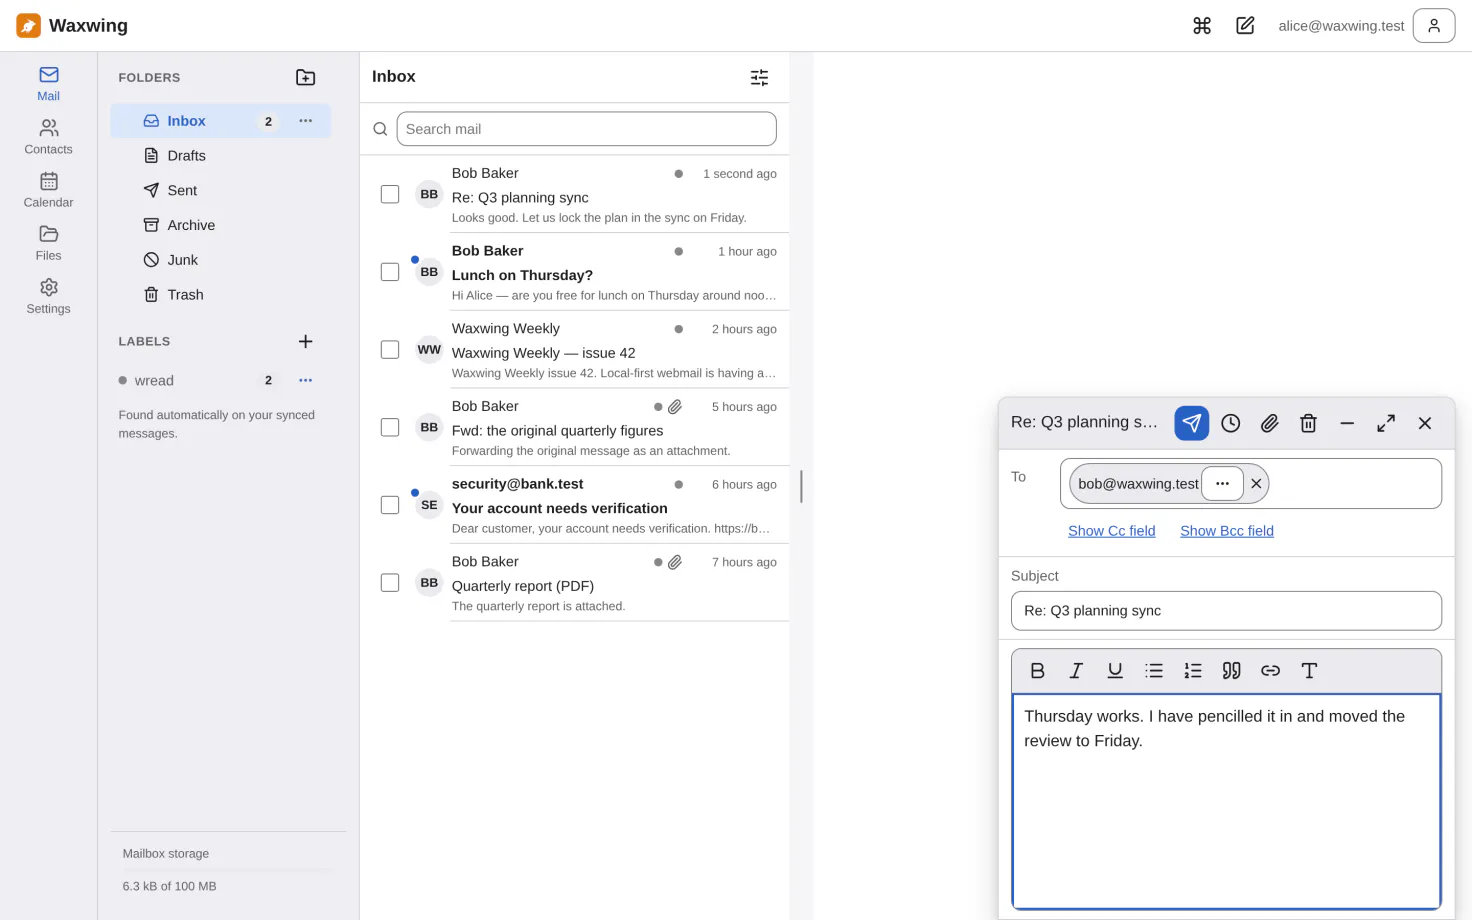
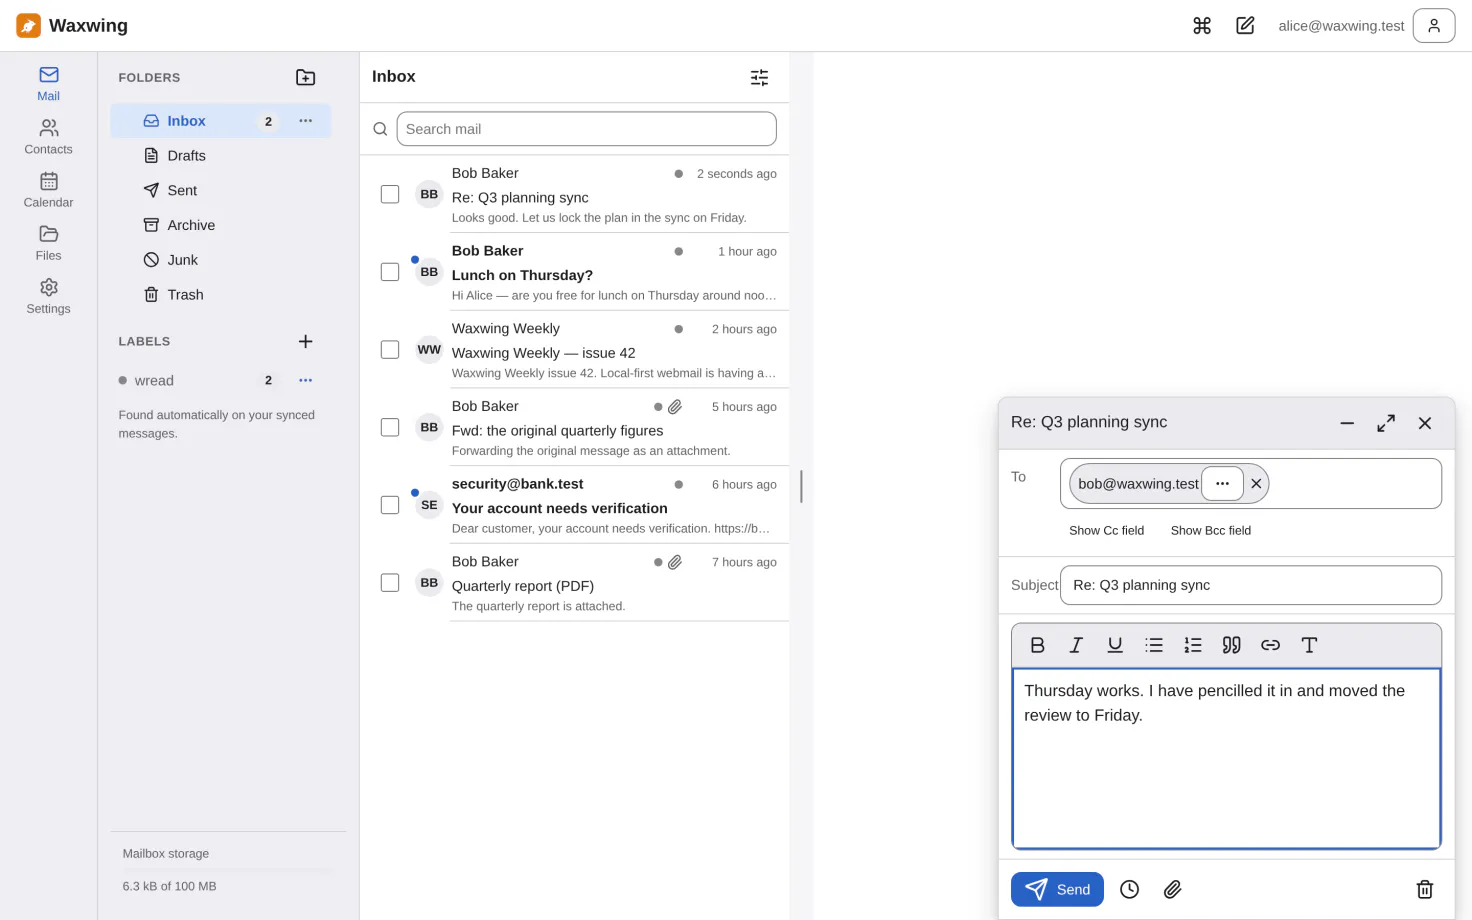
feat(web): the composer speaks one language, and names its primary action
Three things in one small window, all found by looking at the shipped screenshot rather than at the
code.

**Two form languages, stacked.** From and Subject put their labels ABOVE the control while To, Cc
and Bcc put theirs in a 2.5rem column to the left — so the reader's eye had to find a new left edge
twice on the way down four fields. They share the recipient rows' grid now, one measurement declared
once, which is also what stops the halves drifting apart again. Below the tablet breakpoint every
label goes back on top, together.

**Cc and Bcc were the app's only links outside a message body.** This rule has now been wrong in
both directions, which is worth recording: unadorned they read as static captions beside the field
(and were 21px tall, the only targets under WCAG 2.2 AA's 24px floor); answered with accent colour
and an underline, they became the link idiom in a window whose every other control is a button — and
they do not navigate, they reveal a field. `Button variant="ghost"` is unmistakably pressable,
unmistakably not a link, and 34px by construction.

**Send was an icon-only circle one 8px gap from the wastebasket.** The two most consequential
actions in the window, adjacent, told apart by a glyph. Send is now a named button in a footer,
where a form's primary action belongs, and it carries `sendLabel` — which already knew how to say
"waiting for uploads" or "check the recipients" and was hiding that sentence in a tooltip nobody
[…]

diff --git a/apps/web/src/compose/ComposerWindow.tsx b/apps/web/src/compose/ComposerWindow.tsx
@@ -370,15 +370,6 @@ export function ComposerWindow({
             {draft.subject || t('compose.noSubject')}
           </span>
           <div className={styles.titleActions}>
-            <IconButton
-              label={sendLabel}
-              variant="primary"
-              size="sm"
-              disabled={!canSend}
-              onClick={requestSend}
-            >
-              <Send />
-            </IconButton>
             {templates.templates.length > 0 && (
               // Only shown once the account HAS templates — an empty menu is a control that
               // teaches the user nothing except that it does nothing.
@@ -394,36 +385,6 @@ export function ComposerWindow({
                 }))}
               />
             )}
-            {scheduleMaxMs > 0 && (
-              // Offered only where the SERVER can hold the message (FR-CMP-11). Without
-              // FUTURERELEASE this would be a promise the app could not keep with its tab closed.
-              <IconButton
-                label={t('compose.schedule.open')}
-                variant="ghost"
-                size="sm"
-                disabled={!canSend}
-                onClick={() => setScheduleOpen(true)}
-              >
-                <Clock />
-              </IconButton>
-            )}
-            <IconButton
-              label={t('compose.attach')}
-              variant="ghost"
-              size="sm"
-              disabled={!attachments.canUpload}
-              onClick={() => fileInputRef.current?.click()}
-            >
-              <Paperclip />
-            </IconButton>
-            <IconButton
-              label={t('compose.discard')}
-              variant="ghost"
-              size="sm"
-              onClick={requestDiscard}
-            >
-              <Trash2 />
-            </IconButton>
             {/* Also not on a phone, and for the same reason: line 129 defines `minimized` as
                 `draft.mode === 'minimized' && tier !== 'phone'`, so on a phone the mode is stored
                 and then ignored. ComposerHost picks the visible draft by `focusedId`, which this
@@ -501,6 +462,51 @@ export function ComposerWindow({
             {...(attachments.canUpload ? { onAddFiles: attachments.addFiles } : {})}
             {...(editorFactory ? { factory: editorFactory } : {})}
           />
+        </div>
+
+        {/*
+          Send is a NAMED button in a footer, not a filled circle beside the wastebasket.
+          It was an icon-only primary in the title bar, one 8px gap from Discard — the two most
+          consequential actions in the window, adjacent, distinguished by a glyph. A composer's
+          primary action is also the one thing in it worth naming: `sendLabel` already carries the
+          reason it is disabled ("waiting for uploads", "check the recipients"), and an icon-only
+          button hides that sentence behind a tooltip nobody opens.
+        */}
+        <div className={styles.footer}>
+          <Button variant="primary" disabled={!canSend} onClick={requestSend}>
+            <Send aria-hidden="true" />
+            {sendLabel}
+          </Button>
+          {scheduleMaxMs > 0 && (
+            // Offered only where the SERVER can hold the message (FR-CMP-11). Without
+            // FUTURERELEASE this would be a promise the app could not keep with its tab closed.
+            <IconButton
+              label={t('compose.schedule.open')}
+              variant="ghost"
+              disabled={!canSend}
+              onClick={() => setScheduleOpen(true)}
+            >
+              <Clock />
+            </IconButton>
+          )}
+          <IconButton
+            label={t('compose.attach')}
+            variant="ghost"
+            disabled={!attachments.canUpload}
+            onClick={() => fileInputRef.current?.click()}
+          >
+            <Paperclip />
+          </IconButton>
+          {/* At the far end, and that distance is the feature: discarding is the one action here
+              that cannot be undone from this window. */}
+          <IconButton
+            label={t('compose.discard')}
+            variant="ghost"
+            className={styles.footerDiscard}
+            onClick={requestDiscard}
+          >
+            <Trash2 />
+          </IconButton>
         </div>
 
         <input

diff --git a/apps/web/src/compose/composer.module.css b/apps/web/src/compose/composer.module.css
@@ -106,10 +106,20 @@
   gap: var(--waxwing-space-1);
 }
 
+/*
+ * THE SAME GRID the recipient rows use (recipient-field.module.css), and that is the point.
+ *
+ * From and Subject stacked their labels ABOVE the control while To/Cc/Bcc put theirs in a 2.5rem
+ * column to the left — two form languages in one small window, one above the other, so the reader's
+ * eye had to find a new left edge twice on the way down four fields. Photographed in
+ * desktop-compose.webp. One column measurement, declared once and shared, is also what stops the
+ * two halves drifting apart again.
+ */
 .field {
-  display: flex;
-  flex-direction: column;
-  gap: var(--waxwing-space-1);
+  display: grid;
+  grid-template-columns: 2.5rem minmax(0, 1fr);
+  align-items: center;
+  gap: var(--waxwing-space-2);
   padding: var(--waxwing-space-2) var(--waxwing-space-3);
   border-block-end: 1px solid var(--waxwing-border);
 }
@@ -118,6 +128,15 @@
 .fromLabel {
   font-size: var(--waxwing-text-sm);
   color: var(--waxwing-text-muted);
+}
+
+/* Below the tablet breakpoint the label column costs a fifth of the line; the labels go back on top
+   there, for every field at once — the two halves stay in one language either way. */
+@media (max-width: 39.999em) {
+  .field {
+    grid-template-columns: minmax(0, 1fr);
+    gap: var(--waxwing-space-1);
+  }
 }
 
 .editorWrap {
@@ -242,4 +261,21 @@
   margin: 0;
   color: var(--waxwing-danger);
   font-size: var(--waxwing-text-sm);
+}
+
+/*
+ * The action footer. Send sits where a form's primary action belongs — at the end of the form, not
+ * in the window chrome — and Discard sits at the other end of the row, because the gap is the only
+ * thing standing between a finished message and a deleted one.
+ */
+.footer {
+  display: flex;
+  align-items: center;
+  gap: var(--waxwing-space-2);
+  padding: var(--waxwing-space-3);
+  border-block-start: 1px solid var(--waxwing-border);
+}
+
+.footerDiscard {
+  margin-inline-start: auto;
 }

diff --git a/apps/web/src/compose/recipient-field.module.css b/apps/web/src/compose/recipient-field.module.css
@@ -209,25 +209,21 @@
 }
 
 /*
- * They are buttons, so they look like buttons.
+ * They are buttons, so they use the Button.
  *
- * Borderless, unpadded, muted and unadorned, they read as static captions next to the field — the
- * same file's `.didYouMeanApply` already showed the right treatment (accent colour, underline).
- * They were also 21 px tall, the only two targets in the whole app below WCAG 2.2 AA's 24 px
- * minimum, in a form the design system promises 44 px on touch.
+ * History worth keeping, because this rule has been wrong in both directions. Borderless, unpadded
+ * and unadorned, they first read as static CAPTIONS beside the field — and were 21px tall, the only
+ * two targets in the app under WCAG 2.2 AA's 24px floor. That was answered with accent colour and
+ * an underline, which fixed the affordance and introduced a different problem: underlined accent
+ * text is this app's LINK idiom, and these two were the only place it appeared outside a message
+ * body, in a window whose every other control is a button. They do not navigate; they reveal a
+ * field.
+ *
+ * `Button variant="ghost"` is the answer to both: unmistakably pressable, unmistakably not a link,
+ * and 34px by construction. Only the placement stays here.
  */
 .fieldToggle {
-  display: inline-flex;
-  align-items: center;
-  min-block-size: var(--waxwing-control-min);
   padding-inline: var(--waxwing-space-2);
-  border: 0;
-  border-radius: var(--waxwing-radius-sm);
-  background: transparent;
-  color: var(--waxwing-accent);
-  font-size: var(--waxwing-text-sm);
-  text-decoration: underline;
-  cursor: pointer;
 }
 
 /* Pointer-only affordance: on a touchscreen a tap leaves this style stuck to whatever it

diff --git a/apps/web/src/compose/RecipientFields.tsx b/apps/web/src/compose/RecipientFields.tsx
@@ -9,6 +9,7 @@ import { useLiveQuery } from 'dexie-react-hooks'
 import { useMemo, useState } from 'react'
 import { useTranslation } from 'react-i18next'
 import { type ContactCardRow, useReplicaOptional } from '../sync'
+import { Button } from '../ui'
 import {
   type DraftWindow,
   type RecipientField as RecipientFieldName,
@@ -121,14 +122,24 @@ export function RecipientFields({ draft, suggestionSource }: RecipientFieldsProp
               see `.fieldToggles` for why hardcoding the offset kept getting it wrong. */}
           <div className={styles.fieldToggleGroup}>
             {!ccVisible && (
-              <button type="button" className={styles.fieldToggle} onClick={() => setShowCc(true)}>
+              <Button
+                variant="ghost"
+                size="sm"
+                className={styles.fieldToggle}
+                onClick={() => setShowCc(true)}
+              >
                 {t('compose.showCcField')}
-              </button>
+              </Button>
             )}
             {!bccVisible && (
-              <button type="button" className={styles.fieldToggle} onClick={() => setShowBcc(true)}>
+              <Button
+                variant="ghost"
+                size="sm"
+                className={styles.fieldToggle}
+                onClick={() => setShowBcc(true)}
+              >
                 {t('compose.showBccField')}
-              </button>
+              </Button>
             )}
           </div>
         </div>
